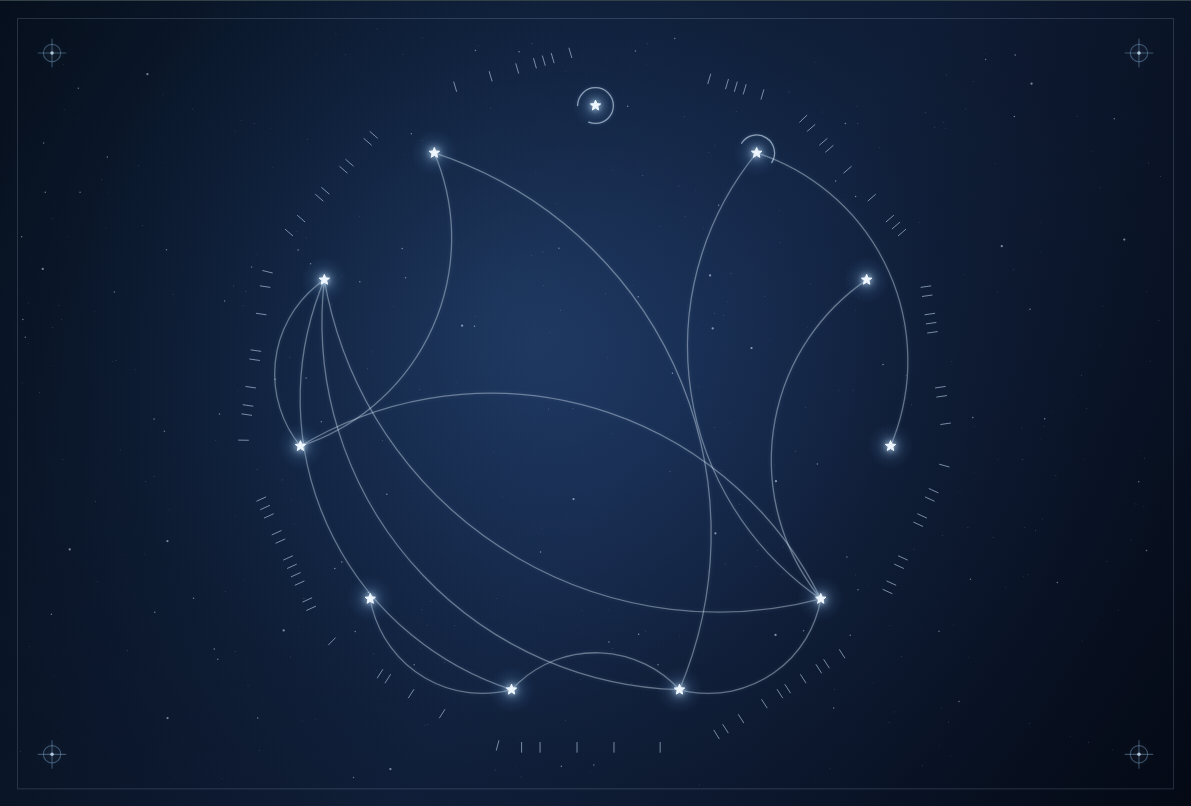
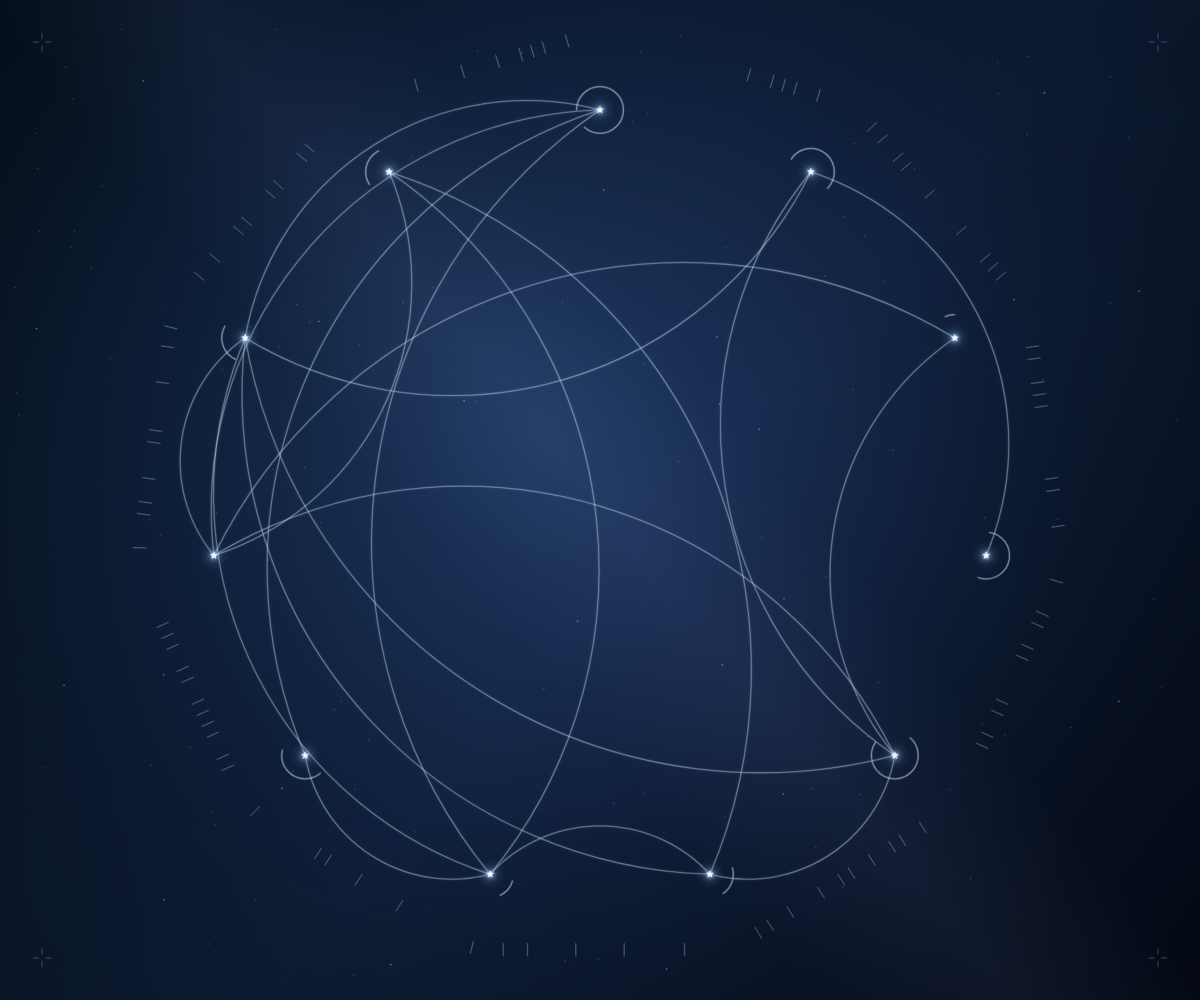
docs: showcase sigil themes and custom spells

diff --git a/README.md b/README.md
@@ -9,7 +9,23 @@ Explanation in the top bar for the notation, mathematics, and worked examples.
 Its source is [explanation.qmd](docs/explanation.qmd)
 ([rendered HTML](docs/explanation.html)).
 
-![Fireball sigil in the Constellations theme](docs/fireball-sigil.png)
+## Gallery
+
+![Sigil workbench showing the spell picker, appearance controls, and a gold Fireball sigil in the Obsidian theme](docs/gallery/workbench.webp)
+
+Fireball in two themes shows how the same spell can look different without
+changing what it encodes. Moonward and Tideglass are custom spells with
+different attributes and drawing settings. All four sigils were exported
+from Sigil with rank filtering turned off.
+
+| Fireball · Constellations | Fireball · Obsidian |
+| --- | --- |
+| ![Fireball sigil in the Constellations theme](docs/fireball-sigil.png) | ![Fireball drawn as gold curves on dark volcanic stone](docs/gallery/fireball-obsidian.webp) |
+| **Moonward · Divine** | **Tideglass · Tattoo** |
+| ![Moonward drawn as an angular gold sigil on ivory parchment](docs/gallery/moonward-divine.webp) | ![Tideglass drawn in tapered charcoal ink on a warm skin tone](docs/gallery/tideglass-tattoo.webp) |
+
+- **Moonward:** rank 5, Divine, touch, 1 hour, light, spirit damage, emanation.
+- **Tideglass:** rank 7, Primal, 60 feet, sustained, water, cold damage, cone.
 
 ## Development and verification
 
